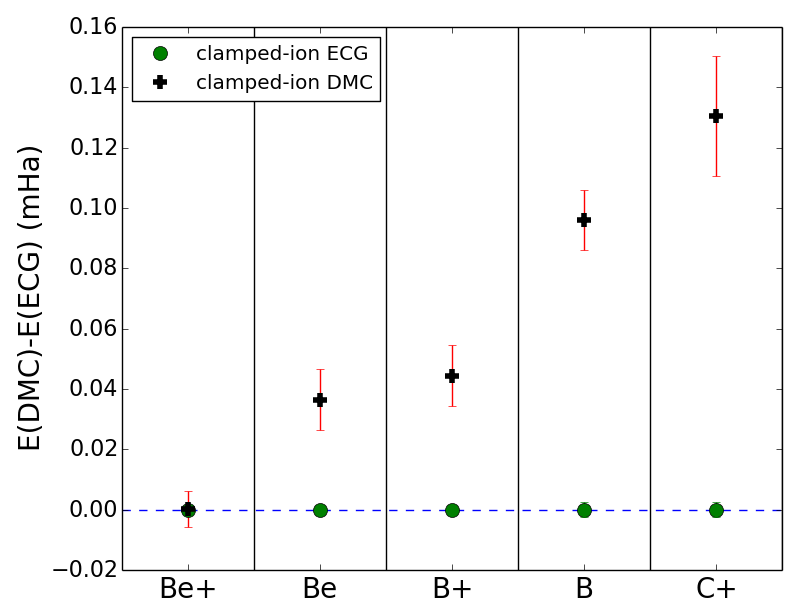
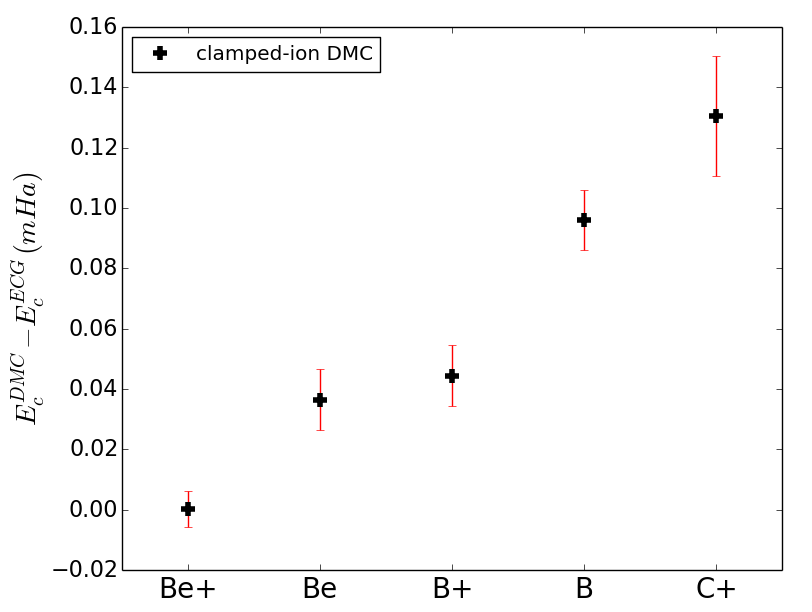
CH is wrong!
CH extrapolation points used restart
O+, F+ are updated, N, F are being updated

diff --git a/main.tex b/main.tex
@@ -17,7 +17,7 @@ In this work we calculate the non-relativistic ground-state energies of atomic a
 \section{Introduction}
 There have been several recent discoveries~\cite{cederbaum1,gross2014,boent} that suggest that quantum wave functions, which include both electronic and ionic degrees of freedom, have many interesting properties that have yet to be explored.  This includes the development of equations that exactly factorize a wave function into electron and ionic components~\cite{cederbaum1}, the disappearance of conical intersections in wave functions of model systems~\cite{gross2014}, and the use of quantum entanglement to study electronic and ionic density matrices~\cite{boent}.  Extending such studies to realistic systems is of broad interest and will considerably expand our understanding of electron-ion systems. However, treatment of \textit{ab initio} electron-ion systems is challenging and applications have thus been limited.   The most accurate simulations of electron-ion wave functions are generally done with very specialized wave functions, which are limited to rather small systems \cite{mitroy2013}.  
 
-As a framework to address these problems in general realistic systems, we recently demonstrated that quantum Monte Carlo (QMC) can be combined with quantum chemistry techniques to generate electron-ion wave functions~\cite{Tubman_ECG}.  We treated realistic molecular systems and demonstrated that our method can be scaled to larger systems than previously considered while maintaining a highly accurate wave function. In the following we extend our previous work by considering the simulation of a larger benchmark set of atoms and molecules.  We calculate ionization energies and dissociation energies which can be directly compared with previous benchmarking results.  We also consider using multiple time steps for different species in the imaginary time propagator, which is also developed and tested.  %Additionally we consider other estimators and the errors associated by using a mixed estimator.
+As a framework to address these problems in general realistic systems, we recently demonstrated that quantum Monte Carlo (QMC) can be combined with quantum chemistry techniques to generate electron-ion wave functions~\cite{Tubman_ECG}.  We treated realistic molecular systems and demonstrated that our method can be scaled to larger systems than previously considered while maintaining a highly accurate wave function. In the following we extend our previous work by considering the simulation of a larger benchmark set of atoms and molecules.  We calculate ionization energies and dissociation energies which can be directly compared with previous benchmarking results.
 
 \section{Method}
 \subsection{Fixed-Node Diffusion Monte Carlo (FN-DMC)}
@@ -85,6 +85,16 @@ We performed a study over diatomic systems, the results of which are presented i
 
 To make the comparison against the thermochemistry benchmark results, we take the reference energies from the last column of Table VI of Ref.~\cite{Feller_Corrections} and subtracted the corrections in the $\Delta E_{SR}$ and SO columns for comparison with our non-adiabatic energies.  For the comparison with our adiabatic energies we subtracted the DBOC and ZPE corrections.  Corrections from spin-orbit coupling and relativistic effects are not used, as they are not included in our Hamiltonian.
 
+\begin{figure}
+\includegraphics[scale=.4]{Figures/atom-nad-ad}
+\caption{Non-adiabatic contribution to ground state energies of atoms and ions. The clamped-ion DMC results are chosen to be the origin of the y-axis. Non-adiabatic contribution shows very little dependence on the presence of the ionized electron.}
+\end{figure}
+
+\begin{figure}
+\includegraphics[scale=.4]{Figures/hydride-ZPE}
+\caption{Non-adiabatic contribution to ground state energies in hydrides. The adiabatic reference energies are calculated by added zero-point contributions from \cite{Feller_Corrections} to our clamped-nuclei results.}
+\end{figure}
+
 \subsection{Ionization Energies}
 
 \begin{figure}[h]
@@ -96,6 +106,8 @@ To make the comparison against the thermochemistry benchmark results, we take th
 The ionization energies are listed in Table \ref{tab:ionization}.  Notice that even though ground state energies change significantly with the inclusion of non-adiabatic effects, the ionization energies match with or without the adiabatic assumption. This suggests that for atomic systems, coupling between valence electron and ion motions is small. The difference in ground state energies can be entirely attributed to the zero point motion of the nuclei. Physically, this means that for all first row atoms, the outer most electron is screened from the nucleus and all of the energy required for its removal can be attributed to its interaction with the rest of the electrons in the atom.
 
 For the LiH molecule we are also interested in calculating the electron affinity for comparison to ECG results. We calculated the ground state energy of LiH$^-$ to be $-8.08220(2)$~Ha for the case of clamped nuclei.  With non-adiabatic effects included our result is  $-8.07811(3)$~Ha. Our non-adiabatic result is in good agreement with a previous ECG study \cite{Bubin_LiH_noBO} which reported a value of $-8.07856887$~Ha. We report an electron affinity of $0.01191(4)$~Ha which is can be compared to the ECG prediction of $0.012132(2)$~Ha and agrees with experiment, $0.0126(4)$~Ha. \footnote{We note that LiH ground state energies which we compare against are mislabeled in Ref.\cite{Bubin_LiH_noBO}, with $\text{LiH}^-$ and LiD being switched.}
+
+\input{Table/diatomics}
 
 \subsection{Atomization Energies}
 
@@ -112,8 +124,6 @@ For the LiH molecule we are also interested in calculating the electron affinity
 \end{figure}
 
 The ground state energies for various hydrides are reported in Table \ref{tab:atomization}. The energies calculated for clamped nuclei are on par with the best available quantum chemistry results \cite{Adamowicz_LiH,Koput_BeH,Miliordos_BH}. The energies calculated without the adiabatic assumption are in agreement with the ECG results for LiH, BeH to within 0.4 mHa. For small systems, ECG results are typically orders of magnitude more accurate than the best QMC and quantum chemistry simulations. However, with BH being one of the largest ECG simulations performed, the QMC results are actually lower in energy, in this case by 1 mHa. For the systems CH, OH, and HF, there are no explicit simulations we can compare against, and we rely on the experimental results and the results with estimated non-adiabatic corrections for comparison. Our biggest errors appear to occur for BeH and OH.   For the case of BeH our agree with accuracy higher than 1 mHa with both the ECG results and semi-empirical benchmarking. In particular the ECG results are converged to more digits than the experimental error bar, and it is likely the experimental reference has errors on the order of 5 mHa.   For the case of OH, our error is on the order of 1 mHa, which isn't unexpected as our clamped nuclei ground state energy is roughly 3 mHa from the actual estimated ground state energy.
- 
-\input{Table/diatomics}
 
 \section{Conclusion}
 We calculated the ground-state energies of first row atoms and their corresponding ions and hydrides to an accuracy of $0.1$ mHa both with and without the adiabatic assumption. We found the ionization energies of the atoms to be independent of the adiabatic assumption, suggesting that the energy difference between the adiabatic and non-adiabatic ground states is due to the zero point motion of the nuclei at the energy scales of interest. The atomization energies of simple hydrides, however, were significantly different in the adiabatic than in the non-adiabatic limit.   We showed that it is necessary to include non-adiabatic effects to accurately predict the experimental values of atomization energies for these simple hydrides.

diff --git a/Table/atoms.tex b/Table/atoms.tex
@@ -46,7 +46,7 @@ $E_{\text{ref}}$ \cite{Davidson_Atoms,Wang_Li,Stanke_Be,Bubin_B} &  \text{-}7.47
 \multicolumn{1}{c}{} &
 \multicolumn{1}{c}{} &
 \multicolumn{1}{c}{} \\
-FN-DMC & \text{-}7.47742(1) & \text{-}14.66633(2) & \text{-}24.6521(1) & \text{-}37.8428(1) & \text{-}54.5867(1) & \text{-}\textbf{75.0631(1)} & \text{-}99.7301(5) \\
+FN-DMC & \text{-}7.47742(1) & \text{-}14.66643(2) & \text{-}24.65240(5) & \text{-}37.8428(1) & \text{-}\textbf{54.5865(1)} & \text{-}75.0632(1) & \text{-}\textbf{99.7301(5)} \\
 \hline
 
 \multicolumn{1}{c}{Ion} & 
@@ -69,7 +69,7 @@ FN-DMC & \text{-}7.47742(1) & \text{-}14.66633(2) & \text{-}24.6521(1) & \text{-
 FN-DMC & \text{-}7.279919(4) & \text{-}14.324763(6) & \text{-}24.34884(1) & \text{-}37.43075(2) & \text{-}54.05376(3) & \text{-}74.56588(4) & \text{-}99.0913(1) \\
 Seth DMC \cite{Seth_Bench} & \text{-}7.279914(3) & \text{-}14.324761(3) & \text{-}24.34887(2) & \text{-}37.43073(4) & \text{-}54.05383(7) & \text{-}74.56662(7) & \text{-}99.0911(2) \\
 $E_{\text{ref}}$ \tnote{d} \cite{Davidson_Atoms,Puchalski_Be+,Bubin_B+,Bubin_C+} & \text{-}7.27999 & \text{-}14.324763 \tnote{e} & \text{-}24.348884 \tnote{f} & \text{-}37.430880 \tnote{g} & \text{-}54.0552 & \text{-}74.5668 & \text{-}99.0937 \\ 
-\multicolumn{1}{c}{} & 
+\multicolumn{1}{c}{} &
 \multicolumn{1}{c}{} &
 \multicolumn{1}{c}{} &
 \multicolumn{1}{c}{non-adiabatic} &
@@ -77,7 +77,7 @@ $E_{\text{ref}}$ \tnote{d} \cite{Davidson_Atoms,Puchalski_Be+,Bubin_B+,Bubin_C+}
 \multicolumn{1}{c}{} &
 \multicolumn{1}{c}{} &
 \multicolumn{1}{c}{} \\
-FN-DMC & \text{-}7.2793(1) & \text{-}14.66643(2) & \text{-}24.34748(3) & \text{-}37.42901(4) & \text{-}\textbf{54.05182(9)} & \text{-}\textbf{74.56336(8)} & \text{-}\textbf{99.0885(3)} \\
+FN-DMC & \text{-}\textbf{7.2793(1)} & \text{-}14.32386(2) & \text{-}24.34748(3) & \text{-}37.42901(4) & \text{-}54.05148(8) & \text{-}74.5631(1) & \text{-}99.0885(1) \\
 \hline
 \multicolumn{1}{c}{} & 
 \multicolumn{1}{c}{} &
@@ -96,18 +96,18 @@ IP (FN-DMC) & 0.19814(1) & 0.34257(1) & 0.30493(1) & 0.41374(3) & 0.53482(4) & 0
 \multicolumn{1}{c}{} &
 \multicolumn{1}{c}{} &
 \multicolumn{1}{c}{} \\
-IP (FN-DMC) & 0.1981(1) & 0.34257(3) & 0.30493(4) & 0.41375(7) & \textbf{0.5347(1)} & \textbf{0.4997(1)} & \textbf{0.6405(5)} \\
+IP (FN-DMC) & 0.1981(1) & 0.34257(3) & 0.30492(6) & 0.41375(7) & \textbf{0.5350(1)} & 0.5001(1) & \textbf{0.6416(5)} \\
 IP (Exp.) \cite{Davidson_Atoms} & 0.19807 & 0.342593 & 0.304982 & 0.41412 & 0.5340 & 0.5005 & 0.6402 \\
 \hline\hline
 \end{tabular}
 
 \begin{tablenotes}
-\item[a] Obtained by Wang et. al.~\cite{Wang_Li} with Hylleraas method -7.4780603239101437(45) Ha
-\item[b] Obtained by Stanke et. al.~\cite{Stanke_Be} with ECG -14.667356486(15) Ha
-\item[c] Obtained by Bubin et. al.~\cite{Bubin_B} with ECG -24.65386608(250) Ha
-\item[e] Obtained by Puchalski et. al.~\cite{Puchalski_Be+} with Hylleraas method -14.32476317679043(22) Ha
-\item[f] Obtained by Bubin et. al.~\cite{Bubin_B+} with ECG -24.348884446(35) Ha
-\item[g] Obtained by Bubin et. al.~\cite{Bubin_C+} with ECG -37.43088049 Ha
+\item[a] Wang et. al.~\cite{Wang_Li} with Hylleraas method -7.4780603239101437(45) Ha
+\item[b] Stanke et. al.~\cite{Stanke_Be} with ECG -14.667356486(15) Ha
+\item[c] Bubin et. al.~\cite{Bubin_B} with ECG -24.65386608(250) Ha
+\item[e] Puchalski et. al.~\cite{Puchalski_Be+} with Hylleraas method -14.32476317679043(22) Ha
+\item[f] Bubin et. al.~\cite{Bubin_B+} with ECG -24.348884446(35) Ha
+\item[g] Bubin et. al.~\cite{Bubin_C+} with ECG -37.43088049 Ha
 \item[d] The ionic ground state energies are calculated by adding ionization potentials in Table XII to the atomic ground state energies in Table XI from Ref.~\cite{Davidson_Atoms}.
 \end{tablenotes}
 

diff --git a/Table/diatomics.tex b/Table/diatomics.tex
@@ -40,7 +40,7 @@ $E_{\text{ref}}$ \tnote{a} \cite{Adamowicz_LiH,Koput_BeH,Miliordos_BH,Davidson_A
 \multicolumn{1}{c}{} &
 \multicolumn{1}{c}{} &
 \multicolumn{1}{c}{} \\
-E (this work) & \text{-}8.06620(2) & \text{-}15.24196(7) & \text{-}25.28103(4) & \text{-}38.4704(4) & \text{-}75.7237(4) & \text{-}100.4445(5) \\
+E (this work) & \text{-}\textbf{8.06621(3)} & \text{-}15.24198(6) & \text{-}25.28103(5) & \text{-}38.4675(4) & \text{-}75.7239(4) & \text{-}100.4447(4) \\
 ECG \cite{Bubin_LiH_noBO,Bubin_BeH_noBO,Bubin_BH_noBO} & \text{-}8.0664371(15) & \text{-}15.24203(10) & \text{-}25.2803(10) & N/A & N/A & N/A \\
 \hline
 
@@ -60,7 +60,7 @@ Feller \tnote{b} \cite{Feller_Corrections} & 0.09262(5) & 0.0809(4) & 0.1354(2) 
 \multicolumn{1}{c}{} &
 \multicolumn{1}{c}{} &
 \multicolumn{1}{c}{} \\
-$D_{0}^0$ (this work) & 0.08905(2)  & 0.07580(7)  & 0.12886(5) & 0.1279(7) & 0.1610(4) & 0.2158(6) \\
+$D_{0}^0$ (this work) & 0.08909(3)  & 0.07585(6)  & 0.12893(7) & 0.1250(4) & 0.1610(4) & 0.2149(6) \\
 Feller \tnote{c} \cite{Feller_Corrections} & 0.08940(5) & 0.0761(4) & 0.1299(2) & 0.1276(2) & 0.1622(2) & 0.2166(3)\\
 Exp. \cite{CCCBDB} & 0.08874(38) & 0.0826(11) & 0.1281(37) & 0.1275(5) & 0.1622(1) & 0.2158(3) \\
 \hline\hline
